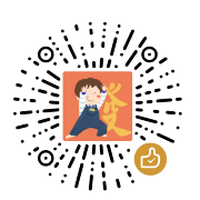
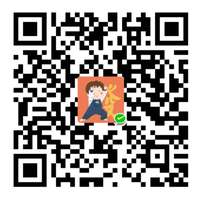
Site updated: 2021-03-23 08:59:08

diff --git a/Hexo-Fluid实现mac-panel风格代码块/index.html b/Hexo-Fluid实现mac-panel风格代码块/index.html
@@ -254,7 +254,7 @@
             
               <p class="note note-info">
                 
-                  本文最后更新于：13 小时前
+                  本文最后更新于：14 小时前
                 
               </p>
             
@@ -488,7 +488,7 @@
 		<!-- 支付宝打赏图案 -->
 		<img src="/img/ali_pay.png" srcset="/img/loading.gif" lazyload alt="支付宝打赏"> 
 		<!-- 微信打赏图案 -->
-		<img src="/img/wechat_pay.png" srcset="/img/loading.gif" lazyload alt="微信打赏">  
+		<img src="/img/wechat.png" srcset="/img/loading.gif" lazyload alt="微信打赏">  
     </div>
 	<script type="text/javascript">
 		document.getElementById('btn_donate').onclick = function(){

diff --git a/PT发布之一键转载脚本使用指南/index.html b/PT发布之一键转载脚本使用指南/index.html
@@ -254,7 +254,7 @@
             
               <p class="note note-info">
                 
-                  本文最后更新于：5 分钟前
+                  本文最后更新于：15 分钟前
                 
               </p>
             
@@ -487,7 +487,7 @@
 		<!-- 支付宝打赏图案 -->
 		<img src="/img/ali_pay.png" srcset="/img/loading.gif" lazyload alt="支付宝打赏"> 
 		<!-- 微信打赏图案 -->
-		<img src="/img/wechat_pay.png" srcset="/img/loading.gif" lazyload alt="微信打赏">  
+		<img src="/img/wechat.png" srcset="/img/loading.gif" lazyload alt="微信打赏">  
     </div>
 	<script type="text/javascript">
 		document.getElementById('btn_donate').onclick = function(){

diff --git a/Hexo搭建的个人博客实现谷歌百度收录/index.html b/Hexo搭建的个人博客实现谷歌百度收录/index.html
@@ -415,7 +415,7 @@ INFO  Deploy <span class="hljs-keyword">done</span>: baidu_url_submitter</code><
 		<!-- 支付宝打赏图案 -->
 		<img src="/img/ali_pay.png" srcset="/img/loading.gif" lazyload alt="支付宝打赏"> 
 		<!-- 微信打赏图案 -->
-		<img src="/img/wechat_pay.png" srcset="/img/loading.gif" lazyload alt="微信打赏">  
+		<img src="/img/wechat.png" srcset="/img/loading.gif" lazyload alt="微信打赏">  
     </div>
 	<script type="text/javascript">
 		document.getElementById('btn_donate').onclick = function(){

diff --git a/Python基于FFMPEG自动截图上传至imgbox（三）/index.html b/Python基于FFMPEG自动截图上传至imgbox（三）/index.html
@@ -433,7 +433,7 @@ Hello wow World <span class="hljs-number">2</span> :<span class="hljs-number">16
 		<!-- 支付宝打赏图案 -->
 		<img src="/img/ali_pay.png" srcset="/img/loading.gif" lazyload alt="支付宝打赏"> 
 		<!-- 微信打赏图案 -->
-		<img src="/img/wechat_pay.png" srcset="/img/loading.gif" lazyload alt="微信打赏">  
+		<img src="/img/wechat.png" srcset="/img/loading.gif" lazyload alt="微信打赏">  
     </div>
 	<script type="text/javascript">
 		document.getElementById('btn_donate').onclick = function(){

diff --git a/Ubuntu或者Debian环境下编译qbittorrent4-3-3/index.html b/Ubuntu或者Debian环境下编译qbittorrent4-3-3/index.html
@@ -459,7 +459,7 @@ cat&gt;<span class="hljs-variable">$qbit_command</span>&lt;&lt;<span class="hljs
 		<!-- 支付宝打赏图案 -->
 		<img src="/img/ali_pay.png" srcset="/img/loading.gif" lazyload alt="支付宝打赏"> 
 		<!-- 微信打赏图案 -->
-		<img src="/img/wechat_pay.png" srcset="/img/loading.gif" lazyload alt="微信打赏">  
+		<img src="/img/wechat.png" srcset="/img/loading.gif" lazyload alt="微信打赏">  
     </div>
 	<script type="text/javascript">
 		document.getElementById('btn_donate').onclick = function(){

diff --git a/Python基于FFMPEG自动截图上传至imgbox（四）/index.html b/Python基于FFMPEG自动截图上传至imgbox（四）/index.html
@@ -388,7 +388,7 @@ qb_pwd = <span class="hljs-string">&quot;123456&quot;</span>
 		<!-- 支付宝打赏图案 -->
 		<img src="/img/ali_pay.png" srcset="/img/loading.gif" lazyload alt="支付宝打赏"> 
 		<!-- 微信打赏图案 -->
-		<img src="/img/wechat_pay.png" srcset="/img/loading.gif" lazyload alt="微信打赏">  
+		<img src="/img/wechat.png" srcset="/img/loading.gif" lazyload alt="微信打赏">  
     </div>
 	<script type="text/javascript">
 		document.getElementById('btn_donate').onclick = function(){

diff --git a/Github-Hexo绑定到Godaddy域名/index.html b/Github-Hexo绑定到Godaddy域名/index.html
@@ -449,7 +449,7 @@ hexo d</code></pre></div>
 		<!-- 支付宝打赏图案 -->
 		<img src="/img/ali_pay.png" srcset="/img/loading.gif" lazyload alt="支付宝打赏"> 
 		<!-- 微信打赏图案 -->
-		<img src="/img/wechat_pay.png" srcset="/img/loading.gif" lazyload alt="微信打赏">  
+		<img src="/img/wechat.png" srcset="/img/loading.gif" lazyload alt="微信打赏">  
     </div>
 	<script type="text/javascript">
 		document.getElementById('btn_donate').onclick = function(){

diff --git a/Python装饰器的一点总结/index.html b/Python装饰器的一点总结/index.html
@@ -551,7 +551,7 @@ wear</code></pre></div>
 		<!-- 支付宝打赏图案 -->
 		<img src="/img/ali_pay.png" srcset="/img/loading.gif" lazyload alt="支付宝打赏"> 
 		<!-- 微信打赏图案 -->
-		<img src="/img/wechat_pay.png" srcset="/img/loading.gif" lazyload alt="微信打赏">  
+		<img src="/img/wechat.png" srcset="/img/loading.gif" lazyload alt="微信打赏">  
     </div>
 	<script type="text/javascript">
 		document.getElementById('btn_donate').onclick = function(){

diff --git a/Python基于FFMPEG自动截图上传至imgbox（一）/index.html b/Python基于FFMPEG自动截图上传至imgbox（一）/index.html
@@ -405,7 +405,7 @@ Track data:
 		<!-- 支付宝打赏图案 -->
 		<img src="/img/ali_pay.png" srcset="/img/loading.gif" lazyload alt="支付宝打赏"> 
 		<!-- 微信打赏图案 -->
-		<img src="/img/wechat_pay.png" srcset="/img/loading.gif" lazyload alt="微信打赏">  
+		<img src="/img/wechat.png" srcset="/img/loading.gif" lazyload alt="微信打赏">  
     </div>
 	<script type="text/javascript">
 		document.getElementById('btn_donate').onclick = function(){

diff --git a/Hexo-Fluid实现添加百度分享按钮/index.html b/Hexo-Fluid实现添加百度分享按钮/index.html
@@ -398,7 +398,7 @@
 		<!-- 支付宝打赏图案 -->
 		<img src="/img/ali_pay.png" srcset="/img/loading.gif" lazyload alt="支付宝打赏"> 
 		<!-- 微信打赏图案 -->
-		<img src="/img/wechat_pay.png" srcset="/img/loading.gif" lazyload alt="微信打赏">  
+		<img src="/img/wechat.png" srcset="/img/loading.gif" lazyload alt="微信打赏">  
     </div>
 	<script type="text/javascript">
 		document.getElementById('btn_donate').onclick = function(){

diff --git a/Pythonh使用IMDBID获取豆瓣信息/index.html b/Pythonh使用IMDBID获取豆瓣信息/index.html
@@ -412,7 +412,7 @@
 		<!-- 支付宝打赏图案 -->
 		<img src="/img/ali_pay.png" srcset="/img/loading.gif" lazyload alt="支付宝打赏"> 
 		<!-- 微信打赏图案 -->
-		<img src="/img/wechat_pay.png" srcset="/img/loading.gif" lazyload alt="微信打赏">  
+		<img src="/img/wechat.png" srcset="/img/loading.gif" lazyload alt="微信打赏">  
     </div>
 	<script type="text/javascript">
 		document.getElementById('btn_donate').onclick = function(){

diff --git a/Pythonh爬取豆瓣电影信息/index.html b/Pythonh爬取豆瓣电影信息/index.html
@@ -881,7 +881,7 @@
 		<!-- 支付宝打赏图案 -->
 		<img src="/img/ali_pay.png" srcset="/img/loading.gif" lazyload alt="支付宝打赏"> 
 		<!-- 微信打赏图案 -->
-		<img src="/img/wechat_pay.png" srcset="/img/loading.gif" lazyload alt="微信打赏">  
+		<img src="/img/wechat.png" srcset="/img/loading.gif" lazyload alt="微信打赏">  
     </div>
 	<script type="text/javascript">
 		document.getElementById('btn_donate').onclick = function(){
